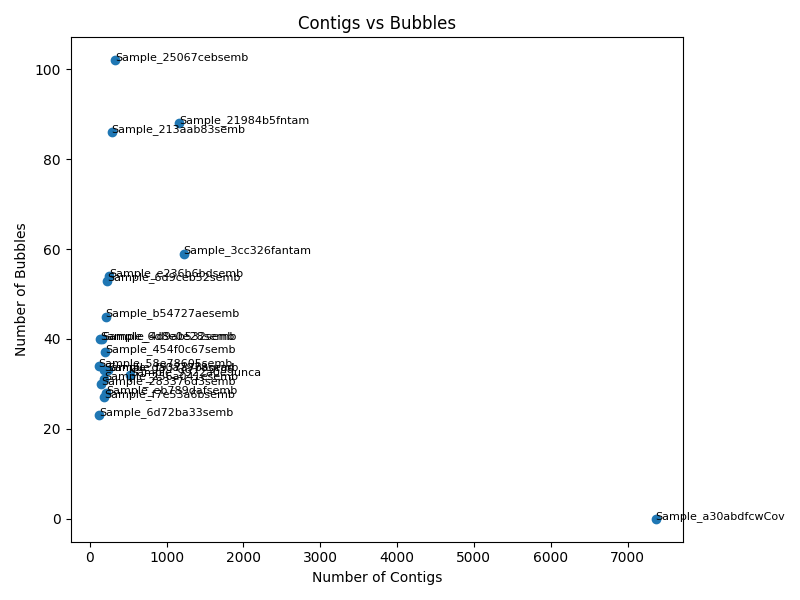
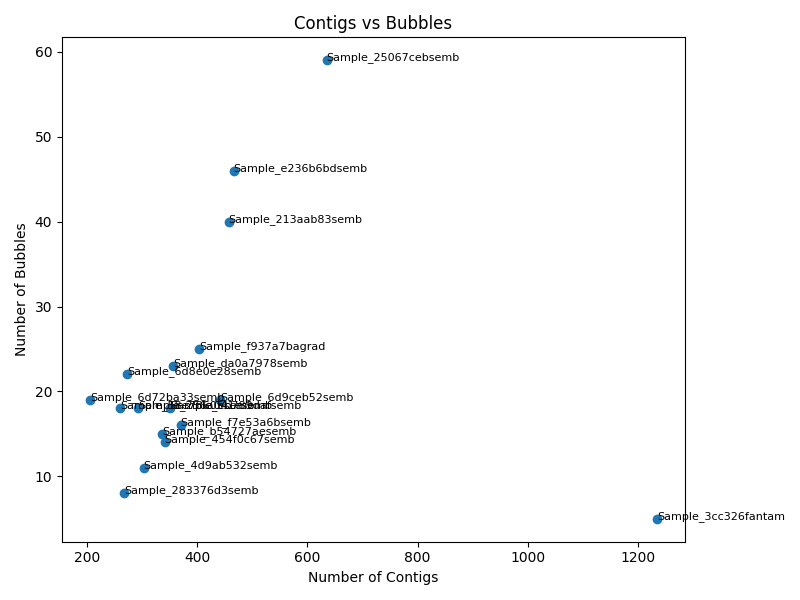
updated script

diff --git a/run_test.py b/run_test.py
@@ -3,7 +3,8 @@ import os
 import glob
 import subprocess
 import matplotlib.pyplot as plt
-
+import pandas as pd
+import seaborn as sns
 # Directory containing spades_results
 spades_dir = 'spades_results'
 
@@ -60,14 +61,14 @@ import matplotlib.pyplot as plt
 spades_dir = 'spades_results'
 
 # Find all GFA files recursively (including assembly_graph_after_simplification.gfa)
-gfa_files = glob.glob(os.path.join(spades_dir, '**', '*after_simplification.gfa'), recursive=True)
+gfa_files = glob.glob(os.path.join(spades_dir, '**', '*.gfa'), recursive=True)
 
 # Main processing loop
 for gfa_file in gfa_files:
 	try:
 		result = subprocess.run(['gfastats', gfa_file], capture_output=True, text=True, check=True)
 		graph_stats = parse_gfastats_output(result.stdout)
-		scaffolds = os.path.join(os.path.dirname(gfa_file), 'scaffolds.fasta')
+		scaffolds = os.path.join(os.path.dirname(gfa_file), 'contigs.fa')
 		result = subprocess.run(['gfastats', scaffolds], capture_output=True, text=True, check=True)
 		scaff_stats = parse_gfastats_output(result.stdout)
 		# If any value of graph_stats is 0 or None, update from scaff_stats
@@ -112,6 +113,27 @@ plt.tight_layout()
 plt.savefig('contigs_vs_bubbles.png')
 plt.close()
 # output all the stats as a table. 
-import pandas as pd
 df = pd.DataFrame(all_stats)
 df.to_csv('assembly_stats.csv', index=False)
+# Drop columns base_composition_(a 
+df = df.loc[:, ~df.columns.str.startswith('base_composition_')]
+
+# Clean up columns that aren’t purely numeric (like base_composition)
+df_numeric = df.apply(pd.to_numeric, errors="coerce")
+
+# Compute correlations (default: Pearson)
+# Skip columns that start with gap 
+df_numeric = df_numeric.loc[:, ~df_numeric.columns.str.startswith('gap_')]
+
+corr = df_numeric.corr()
+
+# Display correlation table
+print(corr)
+
+# Plot heatmap
+
+plt.figure(figsize=(15, 12))
+sns.heatmap(corr, annot=False, cmap="coolwarm", center=0)
+plt.title("Correlation between Assembly Metrics", fontsize=16)
+plt.savefig('correlation_heatmap.png')
+plt.close()
